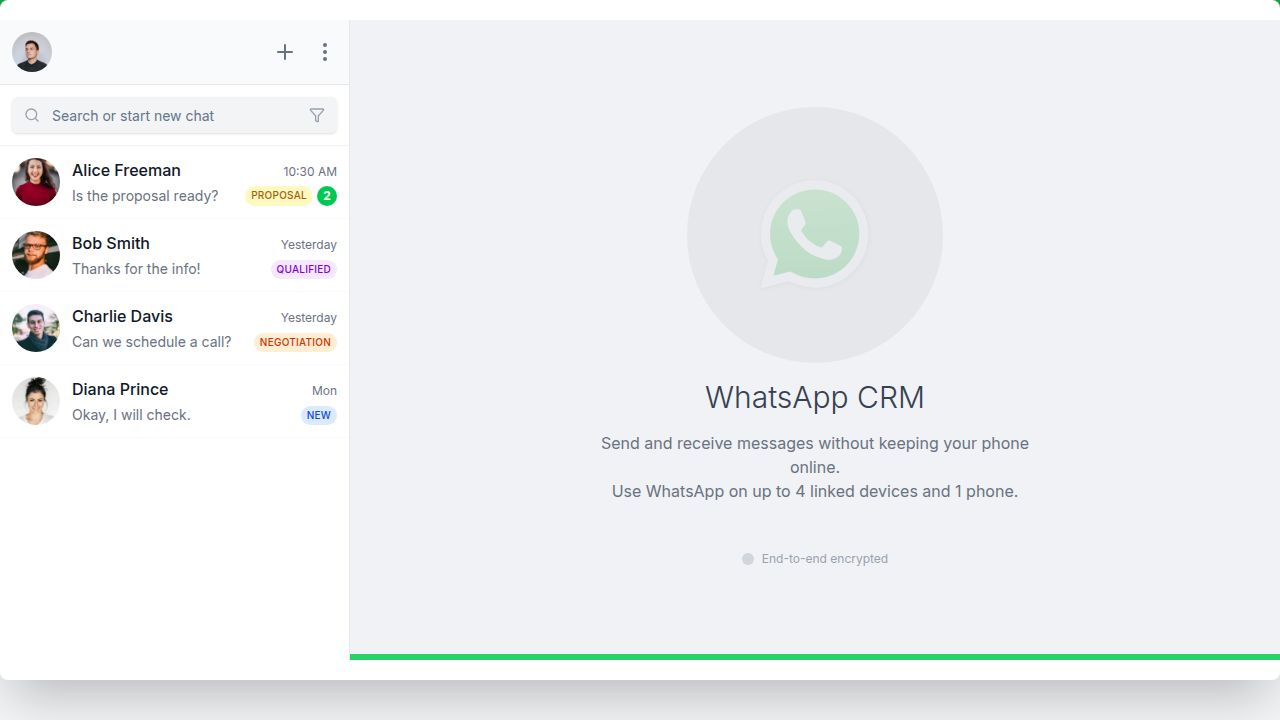
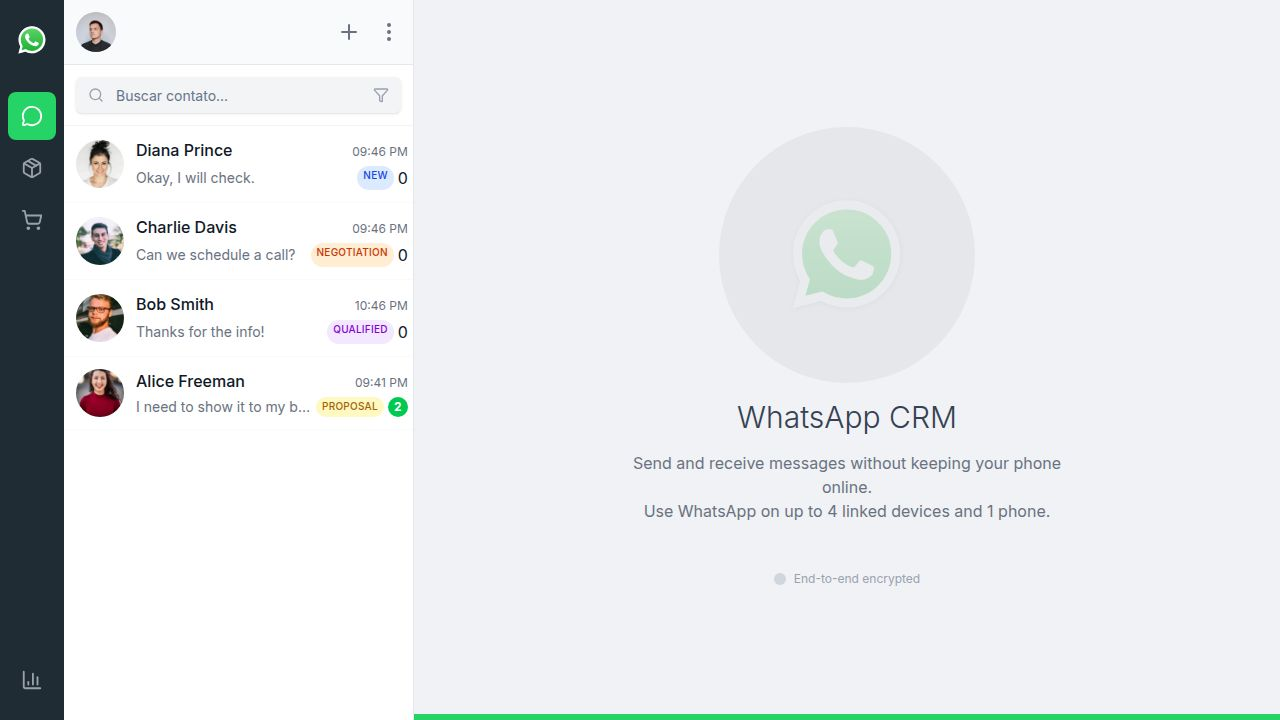
Add ability to include new clients and prepare for ingredient/recipe pages
Fix bug with adding new clients and implement UI components for new pages.

Replit-Commit-Author: Agent
Replit-Commit-Session-Id: a807a516-8507-4677-92fc-b186895c42ce
Replit-Commit-Checkpoint-Type: intermediate_checkpoint
Replit-Commit-Event-Id: 851eb3ef-76f4-46a0-b2fa-176639c07089
Replit-Commit-Screenshot-Url: https://storage.googleapis.com/screenshot-production-us-central1/057f0240-3a52-416d-bb15-58d73ddec2a3/a807a516-8507-4677-92fc-b186895c42ce/oqnRsc7
Replit-Helium-Checkpoint-Created: true

diff --git a/client/src/components/chat-list.tsx b/client/src/components/chat-list.tsx
@@ -4,8 +4,18 @@ import { ScrollArea } from "@/components/ui/scroll-area";
 import { Input } from "@/components/ui/input";
 import { Avatar, AvatarFallback, AvatarImage } from "@/components/ui/avatar";
 import { Badge } from "@/components/ui/badge";
-import type { ContactWithLastMessage, DealStage } from "@shared/schema";
+import { Button } from "@/components/ui/button";
+import { Label } from "@/components/ui/label";
+import { 
+  Dialog, 
+  DialogContent, 
+  DialogHeader, 
+  DialogTitle,
+  DialogFooter,
+} from "@/components/ui/dialog";
+import type { ContactWithLastMessage, DealStage, InsertContact } from "@shared/schema";
 import { cn } from "@/lib/utils";
+import { useCreateContact } from "@/lib/hooks";
 
 interface ChatListProps {
   contacts: ContactWithLastMessage[];
@@ -24,85 +34,217 @@ const STAGE_COLORS: Record<DealStage, string> = {
 
 export function ChatList({ contacts, selectedContactId, onSelectContact }: ChatListProps) {
   const [searchTerm, setSearchTerm] = useState("");
+  const [isAddDialogOpen, setIsAddDialogOpen] = useState(false);
+  const [formData, setFormData] = useState<Partial<InsertContact>>({
+    name: "",
+    phone: "",
+    email: "",
+    company: "",
+    stage: "New",
+    tags: [],
+    notes: "",
+  });
+
+  const createContact = useCreateContact();
 
   const filteredContacts = contacts.filter(contact =>
     contact.name.toLowerCase().includes(searchTerm.toLowerCase()) ||
     contact.phone.includes(searchTerm)
   );
 
+  const handleOpenAddDialog = () => {
+    setFormData({
+      name: "",
+      phone: "",
+      email: "",
+      company: "",
+      stage: "New",
+      tags: [],
+      notes: "",
+    });
+    setIsAddDialogOpen(true);
+  };
+
+  const handleCreateContact = () => {
+    if (!formData.name || !formData.phone) return;
+
+    createContact.mutate(formData as InsertContact, {
+      onSuccess: (newContact) => {
+        setIsAddDialogOpen(false);
+        onSelectContact(newContact.id);
+      },
+    });
+  };
+
   return (
-    <div className="flex flex-col h-full bg-white border-r border-gray-200 w-[350px] min-w-[300px]">
-      {/* Header */}
-      <div className="flex items-center justify-between p-3 bg-gray-50 border-b border-gray-200">
-        <Avatar className="w-10 h-10 cursor-pointer hover:opacity-80 transition-opacity">
-          <AvatarImage src="https://images.unsplash.com/photo-1535713875002-d1d0cf377fde?w=100&h=100&fit=crop" />
-          <AvatarFallback>ME</AvatarFallback>
-        </Avatar>
-        <div className="flex gap-4 text-gray-500">
-          <button className="hover:text-gray-700"><Plus className="w-6 h-6" /></button>
-          <button className="hover:text-gray-700"><MoreVertical className="w-6 h-6" /></button>
-        </div>
-      </div>
-
-      {/* Search */}
-      <div className="p-3 border-b border-gray-100 bg-white">
-        <div className="relative">
-          <div className="absolute inset-y-0 left-0 pl-3 flex items-center pointer-events-none">
-            <Search className="h-4 w-4 text-gray-400" />
-          </div>
-          <Input
-            className="pl-10 bg-gray-100 border-none focus-visible:ring-1 focus-visible:ring-primary h-9"
-            placeholder="Search or start new chat"
-            value={searchTerm}
-            onChange={(e) => setSearchTerm(e.target.value)}
-          />
-          <div className="absolute inset-y-0 right-0 pr-3 flex items-center cursor-pointer">
-            <Filter className="h-4 w-4 text-gray-400 hover:text-gray-600" />
-          </div>
-        </div>
-      </div>
-
-      {/* Contact List */}
-      <ScrollArea className="flex-1">
-        <div className="flex flex-col">
-          {filteredContacts.map((contact) => (
-            <div
-              key={contact.id}
-              onClick={() => onSelectContact(contact.id)}
-              className={cn(
-                "flex items-center gap-3 p-3 cursor-pointer transition-colors border-b border-gray-50 hover:bg-gray-50",
-                selectedContactId === contact.id && "bg-gray-100"
-              )}
+    <>
+      <div className="flex flex-col h-full bg-white border-r border-gray-200 w-[350px] min-w-[300px]">
+        <div className="flex items-center justify-between p-3 bg-gray-50 border-b border-gray-200">
+          <Avatar className="w-10 h-10 cursor-pointer hover:opacity-80 transition-opacity">
+            <AvatarImage src="https://images.unsplash.com/photo-1535713875002-d1d0cf377fde?w=100&h=100&fit=crop" />
+            <AvatarFallback>ME</AvatarFallback>
+          </Avatar>
+          <div className="flex gap-4 text-gray-500">
+            <button 
+              data-testid="btn-add-contact"
+              className="hover:text-gray-700"
+              onClick={handleOpenAddDialog}
             >
-              <Avatar className="w-12 h-12">
-                <AvatarImage src={contact.avatar || undefined} />
-                <AvatarFallback>{contact.name.substring(0, 2)}</AvatarFallback>
-              </Avatar>
-              <div className="flex-1 min-w-0">
-                <div className="flex justify-between items-baseline mb-1">
-                  <span className="font-medium text-gray-900 truncate">{contact.name}</span>
-                  <span className="text-xs text-gray-500 flex-shrink-0">{contact.lastMessageTime}</span>
-                </div>
-                <div className="flex justify-between items-center">
-                  <p className="text-sm text-gray-500 truncate max-w-[180px]">
-                    {contact.lastMessage}
-                  </p>
-                  <div className="flex gap-1">
-                     <span className={cn("text-[10px] px-1.5 py-0.5 rounded-full font-medium uppercase tracking-wide", STAGE_COLORS[contact.stage as DealStage])}>
-                        {contact.stage}
-                     </span>
-                    {contact.unreadCount && contact.unreadCount > 0 && (
-                      <span className="flex items-center justify-center w-5 h-5 bg-green-500 text-white text-xs rounded-full font-bold">
-                        {contact.unreadCount}
-                      </span>
-                    )}
+              <Plus className="w-6 h-6" />
+            </button>
+            <button className="hover:text-gray-700"><MoreVertical className="w-6 h-6" /></button>
+          </div>
+        </div>
+
+        <div className="p-3 border-b border-gray-100 bg-white">
+          <div className="relative">
+            <div className="absolute inset-y-0 left-0 pl-3 flex items-center pointer-events-none">
+              <Search className="h-4 w-4 text-gray-400" />
+            </div>
+            <Input
+              data-testid="input-search-contact"
+              className="pl-10 bg-gray-100 border-none focus-visible:ring-1 focus-visible:ring-primary h-9"
+              placeholder="Buscar contato..."
+              value={searchTerm}
+              onChange={(e) => setSearchTerm(e.target.value)}
+            />
+            <div className="absolute inset-y-0 right-0 pr-3 flex items-center cursor-pointer">
+              <Filter className="h-4 w-4 text-gray-400 hover:text-gray-600" />
+            </div>
+          </div>
+        </div>
+
+        <ScrollArea className="flex-1">
+          <div className="flex flex-col">
+            {filteredContacts.length === 0 ? (
+              <div className="p-8 text-center text-gray-500">
+                <p className="mb-4">Nenhum contato encontrado</p>
+                <Button 
+                  onClick={handleOpenAddDialog}
+                  variant="outline"
+                  className="text-primary"
+                >
+                  <Plus className="w-4 h-4 mr-2" />
+                  Adicionar contato
+                </Button>
+              </div>
+            ) : (
+              filteredContacts.map((contact) => (
+                <div
+                  key={contact.id}
+                  data-testid={`contact-item-${contact.id}`}
+                  onClick={() => onSelectContact(contact.id)}
+                  className={cn(
+                    "flex items-center gap-3 p-3 cursor-pointer transition-colors border-b border-gray-50 hover:bg-gray-50",
+                    selectedContactId === contact.id && "bg-gray-100"
+                  )}
+                >
+                  <Avatar className="w-12 h-12">
+                    <AvatarImage src={contact.avatar || undefined} />
+                    <AvatarFallback>{contact.name.substring(0, 2)}</AvatarFallback>
+                  </Avatar>
+                  <div className="flex-1 min-w-0">
+                    <div className="flex justify-between items-baseline mb-1">
+                      <span className="font-medium text-gray-900 truncate">{contact.name}</span>
+                      <span className="text-xs text-gray-500 flex-shrink-0">{contact.lastMessageTime}</span>
+                    </div>
+                    <div className="flex justify-between items-center">
+                      <p className="text-sm text-gray-500 truncate max-w-[180px]">
+                        {contact.lastMessage}
+                      </p>
+                      <div className="flex gap-1">
+                        <span className={cn("text-[10px] px-1.5 py-0.5 rounded-full font-medium uppercase tracking-wide", STAGE_COLORS[contact.stage as DealStage])}>
+                          {contact.stage}
+                        </span>
+                        {contact.unreadCount && contact.unreadCount > 0 && (
+                          <span className="flex items-center justify-center w-5 h-5 bg-green-500 text-white text-xs rounded-full font-bold">
+                            {contact.unreadCount}
+                          </span>
+                        )}
+                      </div>
+                    </div>
                   </div>
                 </div>
-              </div>
+              ))
+            )}
+          </div>
+        </ScrollArea>
+      </div>
+
+      <Dialog open={isAddDialogOpen} onOpenChange={setIsAddDialogOpen}>
+        <DialogContent className="sm:max-w-md">
+          <DialogHeader>
+            <DialogTitle>Novo Contato</DialogTitle>
+          </DialogHeader>
+          
+          <div className="grid gap-4 py-4">
+            <div className="space-y-2">
+              <Label>Nome *</Label>
+              <Input
+                data-testid="input-contact-name"
+                value={formData.name}
+                onChange={(e) => setFormData({ ...formData, name: e.target.value })}
+                placeholder="Nome do contato"
+              />
             </div>
-          ))}
-        </div>
-      </ScrollArea>
-    </div>
+
+            <div className="space-y-2">
+              <Label>Telefone *</Label>
+              <Input
+                data-testid="input-contact-phone"
+                value={formData.phone}
+                onChange={(e) => setFormData({ ...formData, phone: e.target.value })}
+                placeholder="+55 11 99999-9999"
+              />
+            </div>
+
+            <div className="space-y-2">
+              <Label>Email</Label>
+              <Input
+                data-testid="input-contact-email"
+                type="email"
+                value={formData.email || ""}
+                onChange={(e) => setFormData({ ...formData, email: e.target.value })}
+                placeholder="email@exemplo.com"
+              />
+            </div>
+
+            <div className="space-y-2">
+              <Label>Empresa</Label>
+              <Input
+                data-testid="input-contact-company"
+                value={formData.company || ""}
+                onChange={(e) => setFormData({ ...formData, company: e.target.value })}
+                placeholder="Nome da empresa"
+              />
+            </div>
+
+            <div className="space-y-2">
+              <Label>Notas</Label>
+              <Input
+                data-testid="input-contact-notes"
+                value={formData.notes || ""}
+                onChange={(e) => setFormData({ ...formData, notes: e.target.value })}
+                placeholder="Observações sobre o contato"
+              />
+            </div>
+          </div>
+
+          <DialogFooter>
+            <Button variant="outline" onClick={() => setIsAddDialogOpen(false)}>
+              Cancelar
+            </Button>
+            <Button 
+              data-testid="btn-save-contact"
+              onClick={handleCreateContact} 
+              disabled={!formData.name || !formData.phone || createContact.isPending}
+              className="bg-[#00A884] hover:bg-[#008f6f]"
+            >
+              {createContact.isPending ? "Salvando..." : "Criar Contato"}
+            </Button>
+          </DialogFooter>
+        </DialogContent>
+      </Dialog>
+    </>
   );
 }
